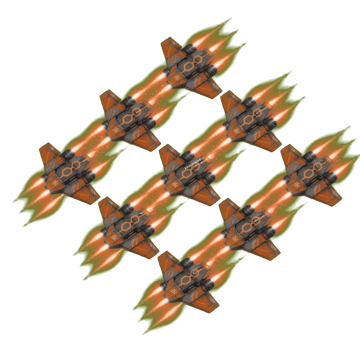
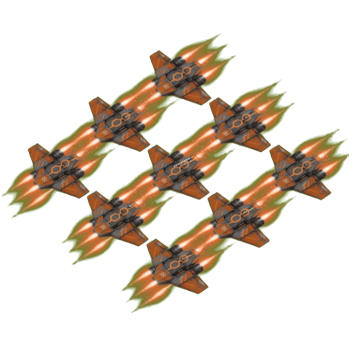
13.05-4

diff --git a/frontend/src/scenes/CollectionScene.ts b/frontend/src/scenes/CollectionScene.ts
@@ -10,6 +10,7 @@ export default class CollectionScene extends Phaser.Scene {
   private publicClient: any;
   private equippedRelicIds: number[] = [];
   private lastClickTime = 0;
+  private previewShip: Phaser.GameObjects.Sprite | null = null;
 
   private currentTab: 'units' | 'relics' = 'units';
   private unitsData: any[] = [];
@@ -34,6 +35,24 @@ export default class CollectionScene extends Phaser.Scene {
   constructor() {
     super({ key: 'CollectionScene' });
   }
+
+  private getShipKey(faction: number, unitClass: number): string {
+  const map: Record<string, string> = {
+    '0_0': 'emperial_fighter',
+    '0_1': 'emperial_cruiser',
+    '0_2': 'emperial_dreadnought',
+    '0_3': 'emperial_droneswarm',
+    '1_0': 'voidborn_fighter',
+    '1_1': 'voidborn_cruiser',
+    '1_2': 'voidborn_dreadnought',
+    '1_3': 'voidborn_droneswarm',
+    '2_0': 'mechanoid_fighter',
+    '2_1': 'mechanoid_cruiser',
+    '2_2': 'mechanoid_dreadnought',
+    '2_3': 'mechanoid_droneswarm',
+  };
+  return map[`${faction}_${unitClass}`] || 'emperial_fighter';
+}
 
   init(data: any) {
     this.gameContract = data.gameContract;
@@ -372,13 +391,11 @@ private refreshGrid() {
     let sprite: Phaser.GameObjects.GameObject;
 
     if (this.currentTab === 'units') {
-      const rarityColor = item.unit.rarity === 2 ? 0xffee00 : item.unit.rarity === 1 ? 0x00ff77 : 0x00ccff;
+      const shipKey = this.getShipKey(item.unit.faction, item.unit.unitClass);
       const isSelected = this.selectedUnitIds.includes(item.id);
-      const borderColor = isSelected ? 0x00ff00 : rarityColor;
-      const strokeWidth = isSelected ? 6 : 4;
 
-      sprite = this.add.rectangle(x, y, 52, 52, 0x112233)
-        .setStrokeStyle(strokeWidth, borderColor)
+      sprite = this.add.sprite(x, y, shipKey)
+        .setScale(0.20)
         .setInteractive();
 
       (sprite as any).unitId = item.id;
@@ -407,6 +424,7 @@ private refreshGrid() {
 
       sprite.on('pointerover', () => this.showCollectionTooltip(this.gridContainer!.x + x + 4, this.gridContainer!.y + y - 38, item.unit));
       sprite.on('pointerout', () => this.hideTooltip());
+
     } else {
       const isSelected = this.selectedRelicIds.includes(item.id);
       const borderColor = isSelected ? 0x00ff00 : 0xffaa00;
@@ -430,18 +448,16 @@ private refreshGrid() {
           if (prepare && typeof prepare.equipSingleRelic === 'function') {
             const success = prepare.equipSingleRelic(item.id);
             if (success) {
-              // Чистим выбор, чтобы не появлялась панель «Выбрано»
               const idx = this.selectedRelicIds.indexOf(item.id);
               if (idx > -1) this.selectedRelicIds.splice(idx, 1);
               this.showFloatingMultiSelectPanel();
-
               this.relicsData = this.relicsData.filter((r: any) => r.id !== item.id);
               this.refreshGrid();
             }
           }
           clickCount = 0;
         }
-                setTimeout(() => { clickCount = 0; }, 450);
+        setTimeout(() => { clickCount = 0; }, 450);
       });
 
       sprite.on('pointerover', () => this.showCollectionTooltip(this.gridContainer!.x + x + 4, this.gridContainer!.y + y - 38, undefined, item.relic));
@@ -582,13 +598,22 @@ setTimeout(() => this.refreshGrid(), 150); // перестраховка
 }
 
 private showPreview(id: number, isUnit: boolean) {
+  if (this.previewShip) {
+    this.previewShip.destroy(true);
+    this.previewShip = null;
+  }
+
+  if (this.previewTexts && this.previewTexts.length > 0) {
+    this.previewTexts.forEach(t => {
+      if (t && t.destroy) t.destroy(true);
+    });
+    this.previewTexts = [];
+  }
+
   if (this.previewRect) {
     this.previewRect.setVisible(true);
     this.previewRect.setFillStyle(0x112233);
   }
-
-  this.previewTexts.forEach(t => t.destroy());
-  this.previewTexts = [];
 
   const wrapWidth = 230;
 
@@ -597,20 +622,31 @@ private showPreview(id: number, isUnit: boolean) {
     if (!unitData) return;
     const unit = unitData.unit;
 
-    const t1 = this.add.text(775, 355, `ID: ${id}`, { 
-      fontSize: '26px', fill: '#ffff00', wordWrap: { width: wrapWidth }
+    const shipKey = this.getShipKey(unit.faction, unit.unitClass);
+    this.previewShip = this.add.sprite(775, 420, shipKey)
+      .setScale(0.6)
+      .setDepth(8);
+
+// Пульсация
+this.tweens.add({
+  targets: this.previewShip,
+  scale: 0.62,
+  duration: 1800,
+  yoyo: true,
+  repeat: -1,
+  ease: 'Sine.easeInOut'
+});
+
+    const t1 = this.add.text(775, 555, `${this.getFactionName(unit.faction)} ${this.getClassName(unit.unitClass)}`, { 
+      fontSize: '29px', fill: '#00ffff', wordWrap: { width: wrapWidth }, align: 'center'
     }).setOrigin(0.5).setDepth(6);
     this.previewTexts.push(t1);
 
-    const t2 = this.add.text(775, 405, `${this.getFactionName(unit.faction)} ${this.getClassName(unit.unitClass)}`, { 
-      fontSize: '29px', fill: '#00ffff', wordWrap: { width: wrapWidth }, align: 'center'
+    const t2 = this.add.text(775, 605, `ATK ${unit.attack}  DEF ${unit.defense}  SPD ${unit.speed}`, { 
+      fontSize: '26px', fill: '#ffaa00', wordWrap: { width: wrapWidth }
     }).setOrigin(0.5).setDepth(6);
     this.previewTexts.push(t2);
 
-    const t3 = this.add.text(775, 465, `ATK ${unit.attack}  DEF ${unit.defense}  SPD ${unit.speed}`, { 
-      fontSize: '26px', fill: '#ffaa00', wordWrap: { width: wrapWidth }
-    }).setOrigin(0.5).setDepth(6);
-    this.previewTexts.push(t3);
   } else {
     const relicData = this.relicsData.find(r => r.id === id)?.relic;
     if (relicData) {

diff --git a/frontend/src/scenes/PrepareScene.ts b/frontend/src/scenes/PrepareScene.ts
@@ -459,6 +459,7 @@ private async loadCurrentAI() {
       (ship as any).unit = unit;
       slot.setData('aiSprite', ship);
       this.aiSprites.push(ship);
+      
 
       const tooltipText = `${this.getFactionName(unit.faction)} ${this.getRarityName(unit.rarity)} ${this.getClassName(unit.unitClass)}\nATK ${unit.attack} DEF ${unit.defense} SPD ${unit.speed}`;
       ship.on('pointerover', () => this.showTooltip(slot.x + 55, slot.y - 45, tooltipText));
@@ -1054,12 +1055,21 @@ private async createTeamUnitVisual(tokenId: number, slotIndex: number) {
     const shipKey = this.getShipKey(Number(unit.faction), Number(unit.unitClass));
 
     const ship = this.add.sprite(slot.x, slot.y, shipKey)
-      .setScale(style.scale * 0.46)
+      .setScale(style.scale * 0.42)
       .setInteractive()
       .setDepth(6);
 
     (ship as any).tokenId = tokenId;
     (ship as any).unit = unit;
+    // Пульсация
+this.tweens.add({
+  targets: ship,
+  scale: style.scale * 0.44,
+  duration: 1900,
+  yoyo: true,
+  repeat: -1,
+  ease: 'Sine.easeInOut'
+});
 
     this.teamSlotOccupants[slotIndex] = ship;
     this.originalPositions.set(tokenId, { x: slot.x, y: slot.y });